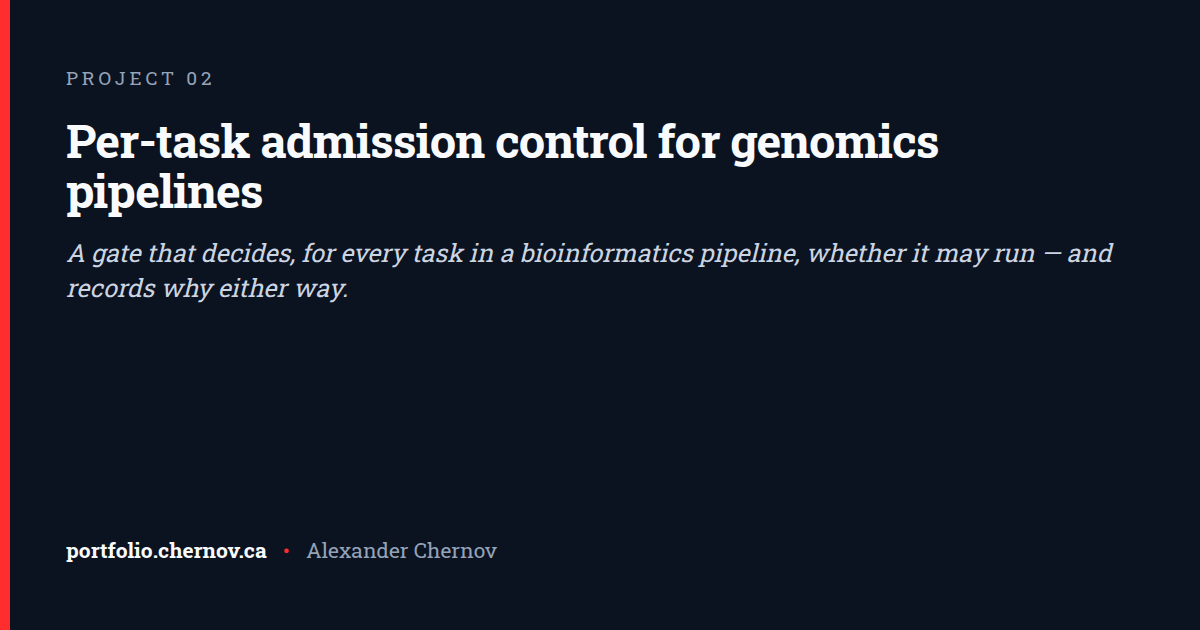
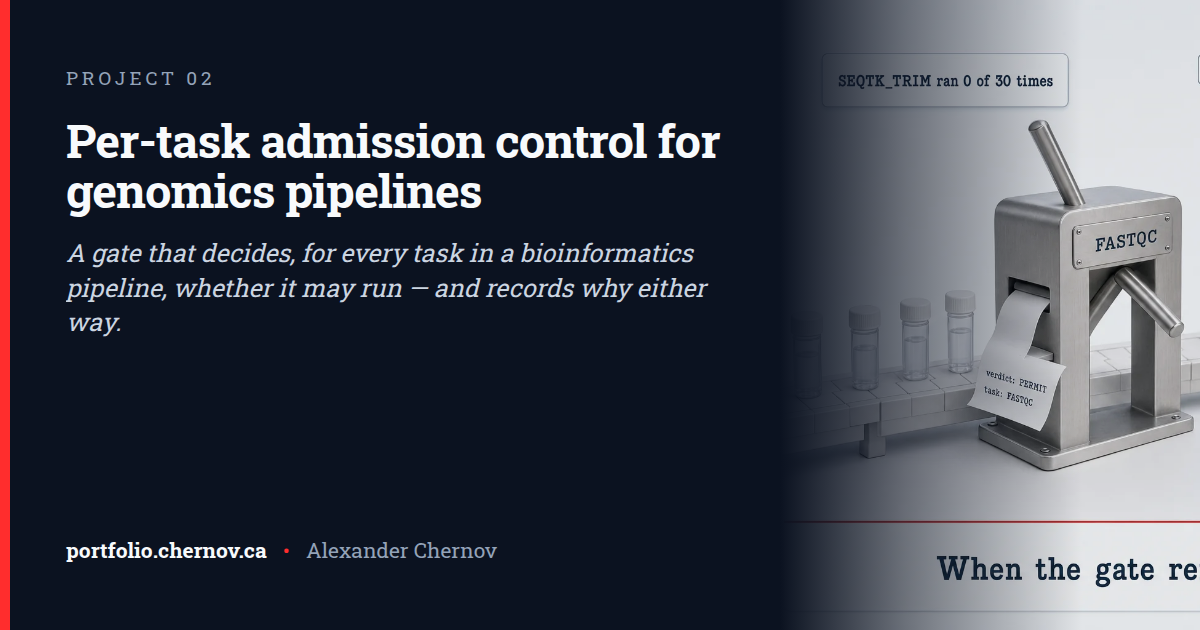
Per-task admission control: an illustration of the gate on nf-core/demo
FASTQC admitted, SEQTK_TRIM refused as CONDITION_VIOLATED (minReadLength 10
against a required 20), a record printed for each. The figures are the
repository's: 119 us median over 210 decisions, and SEQTK_TRIM completing 0
times in 30 refusal-arm replicates. Every word and number in the render was
checked against the prompt and the README before use.

diff --git a/docs/p/per-task-admission-control.html b/docs/p/per-task-admission-control.html
@@ -205,6 +205,9 @@ footer.bottom p{margin:0 0 .5rem}
 </div>
 <p class="lede">A gate that decides, for every task in a bioinformatics pipeline, whether it may run — and records why either way.</p>
 <p class="summary">A Nextflow hook, a policy, and one decision record per task. End-to-end timing came to 119 &micro;s at the median over 210 decisions, published as a corpus anyone can replay. The load-bearing outcome was not that number but establishing by experiment that AWS's managed service honours a directive its own linter called unsupported.</p>
+<figure><img src="../img/project-per-task-admission-control.webp" alt="Two tasks of nf-core/demo at the gate, which runs through Nextflow&amp;rsquo;s &lt;code&gt;process.beforeScript&lt;/code&gt; hook before each task script: FASTQC admitted, SEQTK_TRIM refused because the offered minimum read length is 10 where the descriptor requires 20. A record is written either way. Illustration; the figures are the measured ones." loading="lazy" decoding="async">
+<figcaption>Two tasks of nf-core/demo at the gate, which runs through Nextflow&rsquo;s <code>process.beforeScript</code> hook before each task script: FASTQC admitted, SEQTK_TRIM refused because the offered minimum read length is 10 where the descriptor requires 20. A record is written either way. Illustration; the figures are the measured ones.</figcaption>
+</figure>
 <p>Measured on a real nf-core pipeline rather than a synthetic one: 119 µs median for the whole gate process over 210 decisions, independently replayable from the published corpus.</p>
 <p>The finding was not the latency. AWS's own Nextflow linter listed the hook the gate depends on among directives their managed service does not support, which would have put per-task governance out of reach. That file was two years stale and already contradicted by AWS's current documentation for a neighbouring directive. Treated as a hypothesis and probed against a local control: it runs. The gate now permits and refuses per task on the managed service.</p>
 <p>Transferable principle: when an enforcement boundary matters, validate it experimentally rather than assume the documented boundary is the real one.</p>

diff --git a/docs/index.html b/docs/index.html
@@ -231,6 +231,9 @@ footer.bottom p{margin:0 0 .5rem}
 </div>
 <p class="lede">A gate that decides, for every task in a bioinformatics pipeline, whether it may run — and records why either way.</p>
 <p class="summary">A Nextflow hook, a policy, and one decision record per task. End-to-end timing came to 119 &micro;s at the median over 210 decisions, published as a corpus anyone can replay. The load-bearing outcome was not that number but establishing by experiment that AWS's managed service honours a directive its own linter called unsupported.</p>
+<figure><img src="img/project-per-task-admission-control.webp" alt="Two tasks of nf-core/demo at the gate, which runs through Nextflow&amp;rsquo;s &lt;code&gt;process.beforeScript&lt;/code&gt; hook before each task script: FASTQC admitted, SEQTK_TRIM refused because the offered minimum read length is 10 where the descriptor requires 20. A record is written either way. Illustration; the figures are the measured ones." loading="lazy" decoding="async">
+<figcaption>Two tasks of nf-core/demo at the gate, which runs through Nextflow&rsquo;s <code>process.beforeScript</code> hook before each task script: FASTQC admitted, SEQTK_TRIM refused because the offered minimum read length is 10 where the descriptor requires 20. A record is written either way. Illustration; the figures are the measured ones.</figcaption>
+</figure>
 <p>Measured on a real nf-core pipeline rather than a synthetic one: 119 µs median for the whole gate process over 210 decisions, independently replayable from the published corpus.</p>
 <p>The finding was not the latency. AWS's own Nextflow linter listed the hook the gate depends on among directives their managed service does not support, which would have put per-task governance out of reach. That file was two years stale and already contradicted by AWS's current documentation for a neighbouring directive. Treated as a hypothesis and probed against a local control: it runs. The gate now permits and refuses per task on the managed service.</p>
 <p>Transferable principle: when an enforcement boundary matters, validate it experimentally rather than assume the documented boundary is the real one.</p>

diff --git a/image-prompts/gen_admission.py b/image-prompts/gen_admission.py
@@ -1,0 +1,20 @@
+from common import generate
+
+PROMPT = """Create a 3:2 landscape illustration for a portfolio section about a per-task admission gate in front of a real bioinformatics pipeline. The point of the picture: before each pipeline task runs, a gate decides from the dataset's descriptor whether it may run; one task is ADMITTED and runs, the next is REFUSED and never starts, and both decisions leave a printed record.
+
+HERO (rendered objects, left to right on one pale benchtop): a short matte white laboratory conveyor running left to right, carrying small clear sample tubes with white caps (sequencing reads), no text on the tubes. Along the conveyor stand TWO waist-high matte brushed-steel turnstiles, one behind the other, each with a small engraved plate:
+- the LEFT turnstile plate reads "FASTQC". Its arm is UP (plain steel, no red), and one sample tube has already passed through it and sits beyond it on the conveyor. This task was admitted.
+- the RIGHT turnstile plate reads "SEQTK_TRIM". Its arm is DOWN and carries a thin red accent stripe; a sample tube waits in front of it and has NOT passed. This task was refused.
+The left one admits, the right one refuses - do not swap them.
+
+RECORDS: from a slot in the side of EACH turnstile curls a short strip of white thermal-paper receipt.
+- Left receipt, exactly two lines: "verdict: PERMIT" and "task: FASTQC". No red on it.
+- Right receipt, exactly three lines: "verdict: REFUSE", "class: CONDITION_VIOLATED", "minReadLength 10, needs at least 20". The word REFUSE is the only red text.
+
+FLOATING ANNOTATION (thin and light): one small white chip above the turnstiles, connected by a thin slate leader line to the right turnstile, reading "runs before the task script". One small white chip at the upper right with two lines: "119 microseconds median" and "210 decisions". One small white chip at the upper left reading "SEQTK_TRIM ran 0 of 30 times".
+
+LOWER BAND (full width, white panel with hairline border and a thin red rule along its top edge): one line of slab-serif text: "When the gate refuses, the tool never runs."
+
+Do not draw any DNA double helix, any human, any hand, any cloud or cloud-provider icon, any whale or container ship, any arrow chain between boxes, any third turnstile, any extra chips, numbers or words beyond those given."""
+
+generate(PROMPT, "per-task-admission-control.png")
